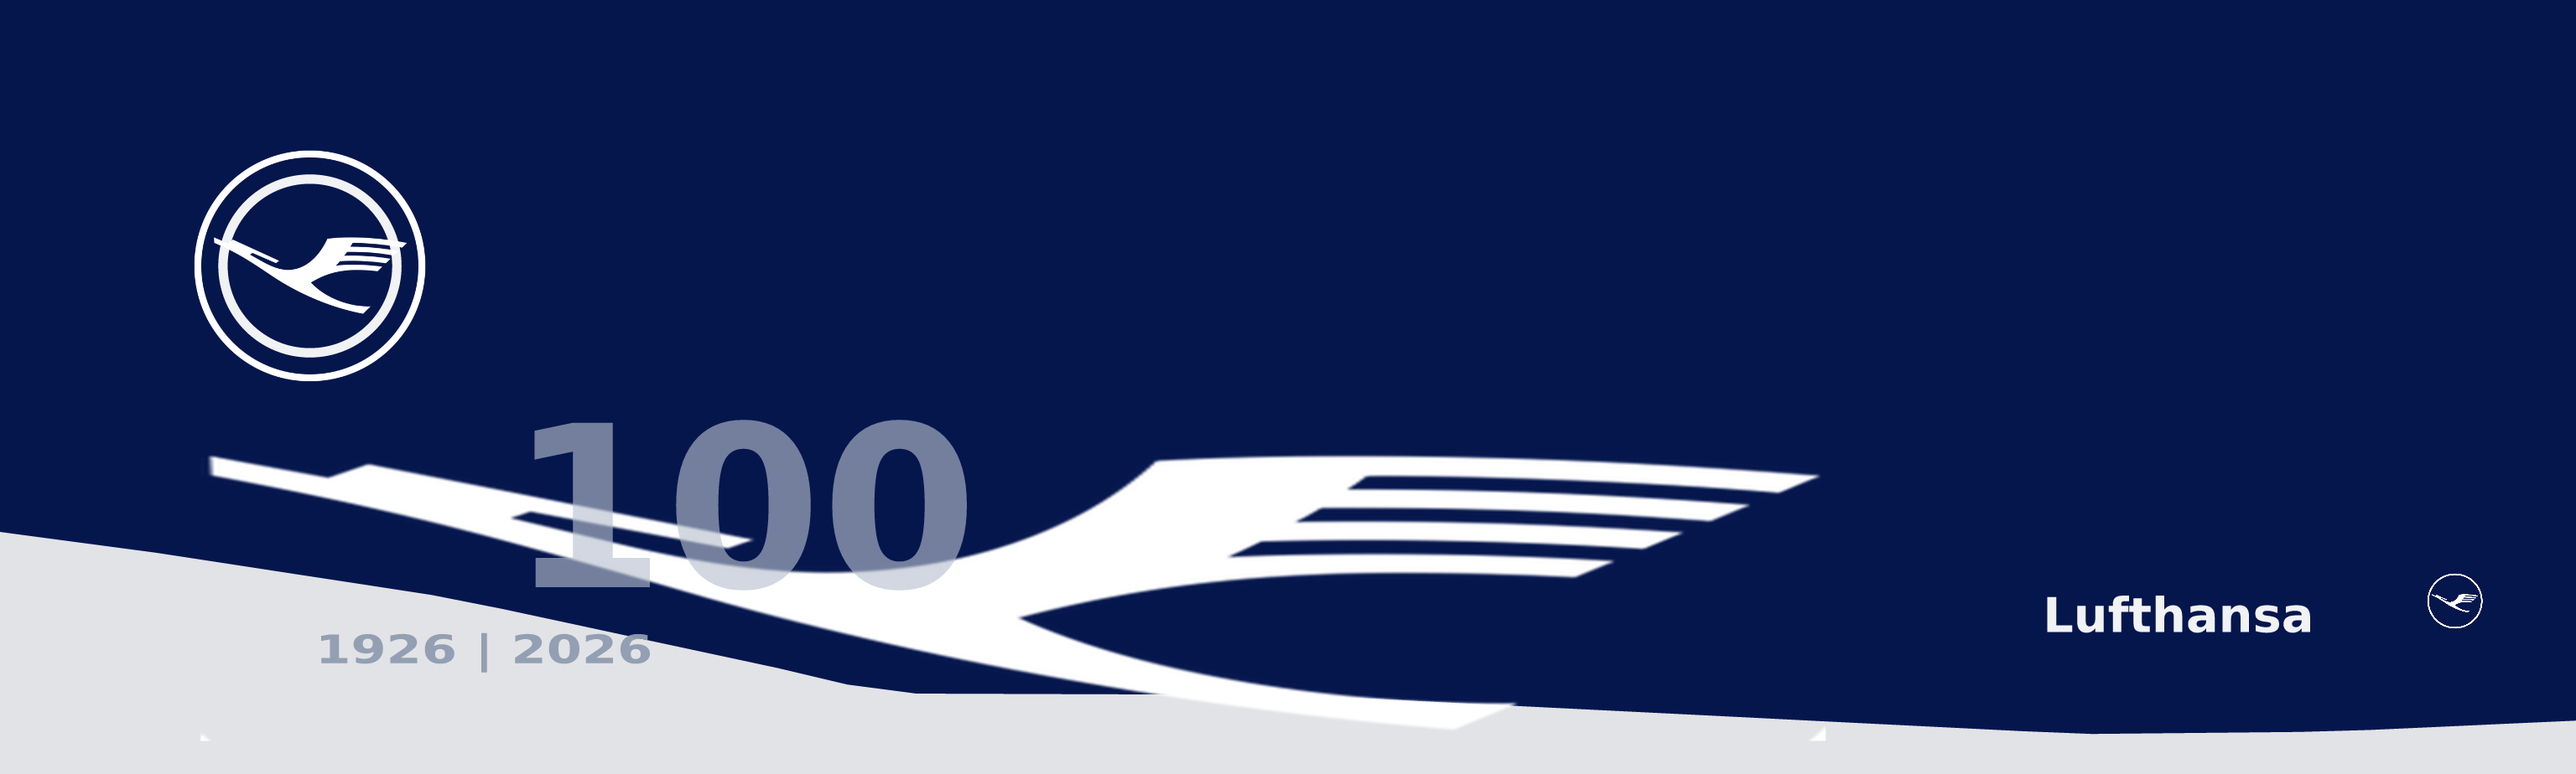
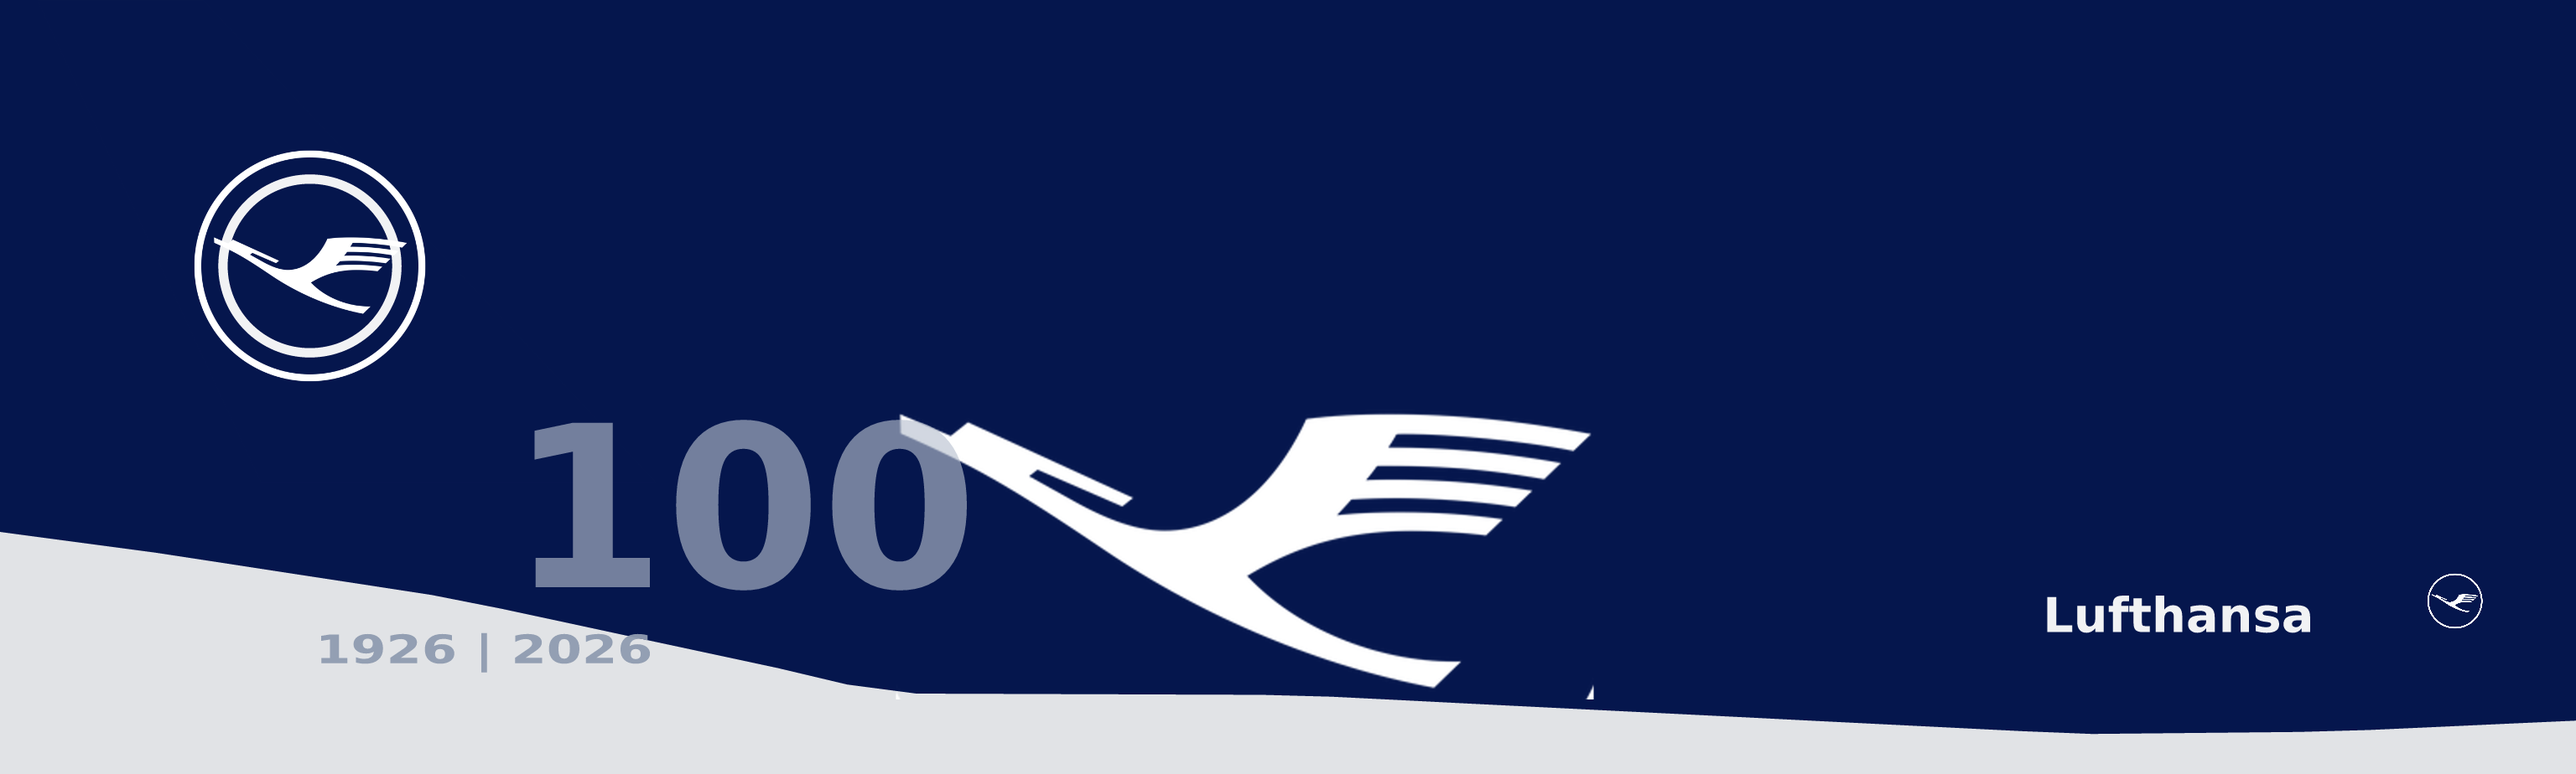
fix: keep the Lufthansa 100 crane at its real proportions
The crane was cut from the old DLH livery at 418x176 px (2.375:1) and then
forced to 940x170 px (5.5:1) with fit "fill", and drawn 47 m x 8.5 m. The
crane was squashed about 2.3x wide on the fuselage. It is now kept at its
original proportions and drawn 20.2 m x 8.5 m, centred a little further
forward and higher so it clears the "100" and the belly line.

DLH100 atlases regenerated. A380_ATLAS_VERSION bumped so browsers reload them.

Agent: Pi coding agent
Model: gpt-6-luna

Changed region(s): [[0.0625, 0.5152, 0.7188, 0.9394]]

diff --git a/src/a380-paint.js b/src/a380-paint.js
@@ -9,7 +9,7 @@ import {closeA380Windows} from './model-paint.js';
 export const A380_ATLAS={x0:-37.5,x1:37.0,y0:-9.8,y1:12.6};
 const ROOT='/747/assets/a380-liveries/';
 // Bump when generated atlases change: the server gives /assets/* a 24-hour browser cache.
-export const A380_ATLAS_VERSION='20261103';
+export const A380_ATLAS_VERSION='20261104';
 const FIN_BASE_Y=-1.4;
 
 const BODY_MATERIAL=/^A380X_FUSE[1235]$/;
